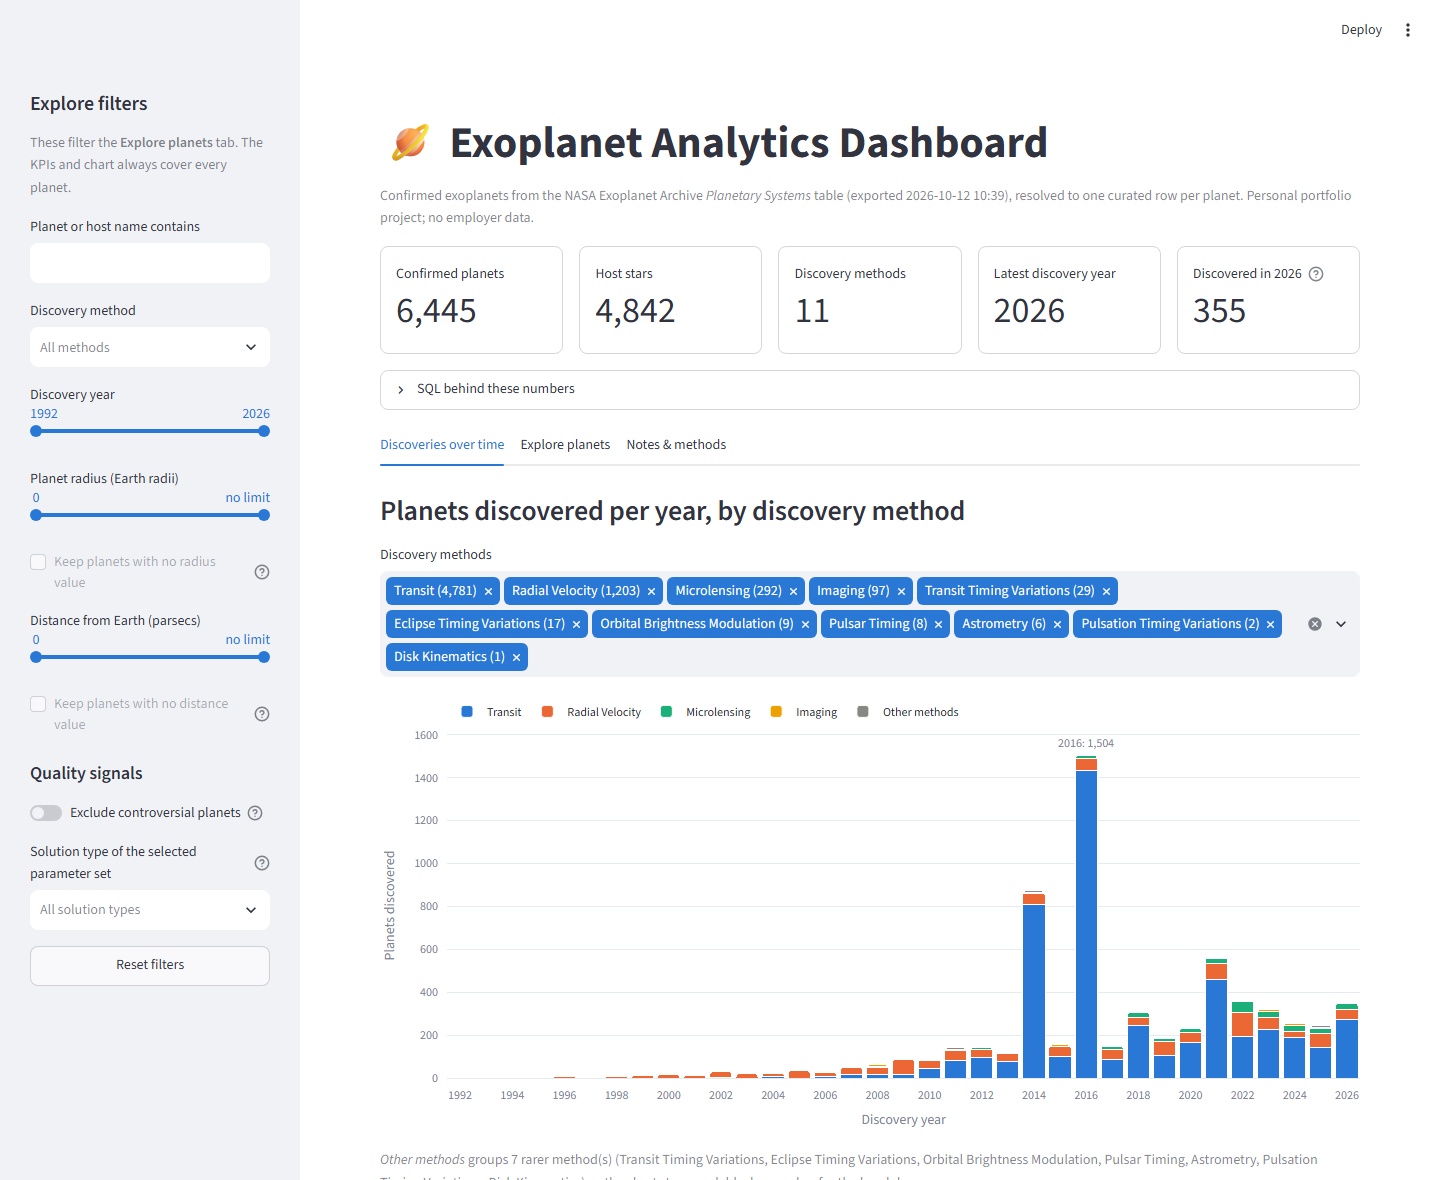
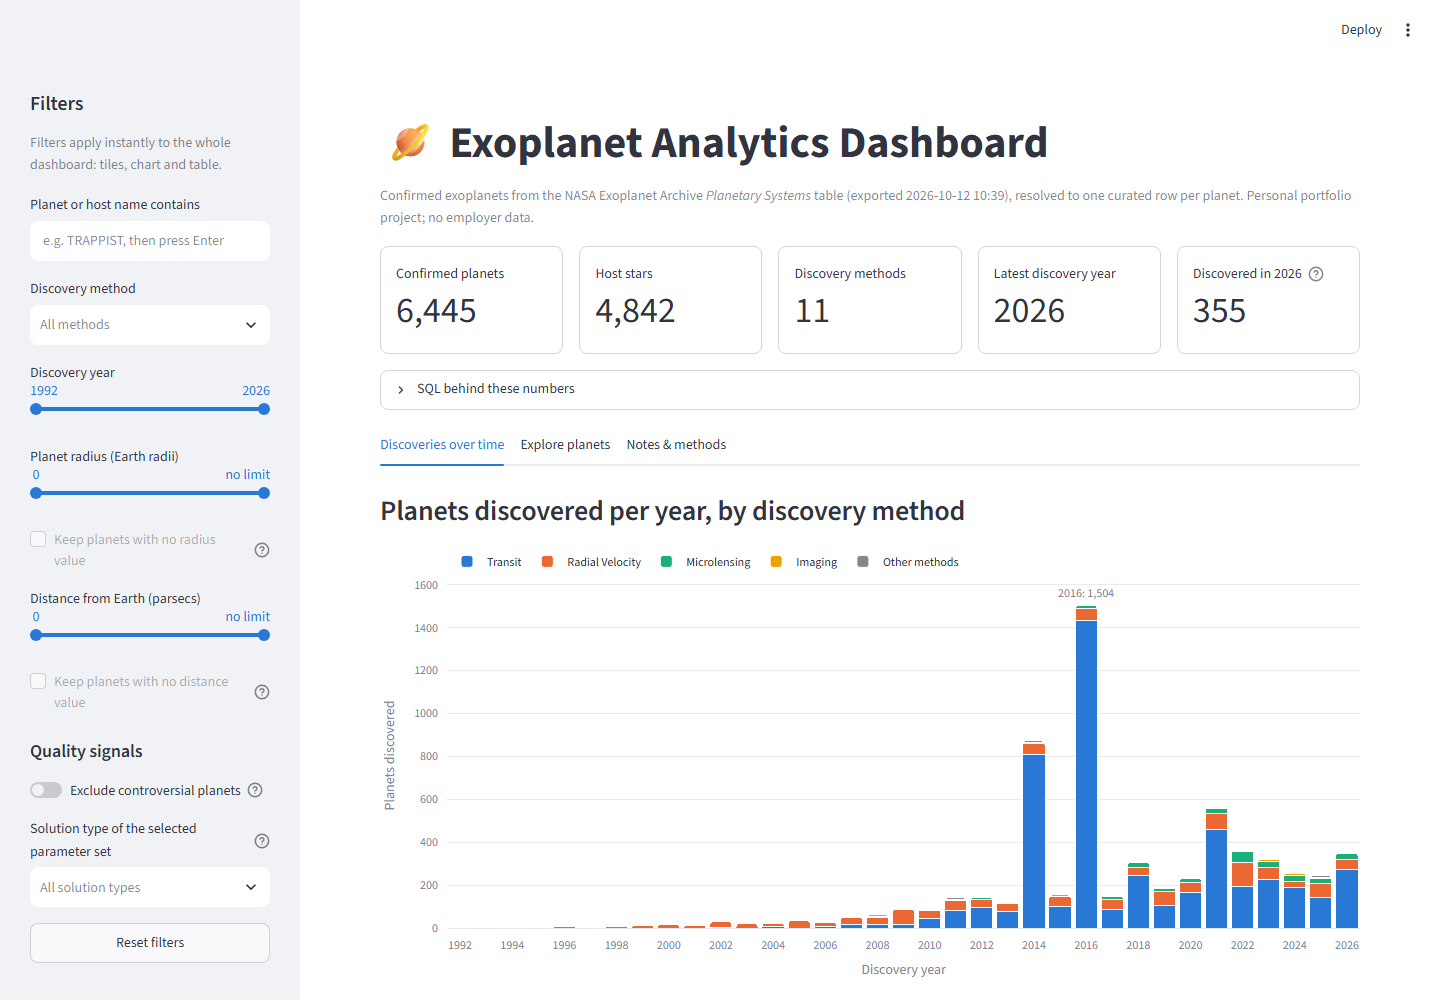
Make sidebar filters drive the whole dashboard; fix Reset filters
- The sidebar filters previously only affected the Explore table, which
  sits on a hidden tab, so changing them appeared to do nothing. They now
  build one shared WHERE clause used by the KPI tiles, the discoveries
  chart and the table, and a banner shows when filters are active.
- The chart's separate method picker is removed in favor of the sidebar's
  Discovery method filter.
- Reset filters cleared the stored values but left stale values in the
  widgets on screen. Filter widget keys now carry a version number that a
  reset bumps, so the widgets are redrawn at their defaults.
- README: live demo link, updated feature list and screenshot.

diff --git a/app.py b/app.py
@@ -225,6 +225,125 @@ def available(columns) -> list[str]:
     return [c for c in columns if c in PLANET_COLUMNS]
 
 
+# --- Reference values (always over the full dataset) ----------------------------
+
+TOTAL_PLANETS = int(query("SELECT COUNT(*) FROM planets").iloc[0, 0])
+METHOD_COUNTS = query(
+    "SELECT discoverymethod, COUNT(*) AS planets FROM planets "
+    "GROUP BY discoverymethod ORDER BY planets DESC, discoverymethod"
+)
+ALL_METHODS = METHOD_COUNTS.discoverymethod.tolist()
+METHOD_N = METHOD_COUNTS.set_index("discoverymethod").planets
+# Color follows the method, ranked on the full dataset, so filtering never repaints a series.
+TOP_METHODS = ALL_METHODS[: len(SERIES_COLORS["light"])]
+YEAR_MIN, YEAR_MAX = (int(v) for v in query("SELECT MIN(disc_year), MAX(disc_year) FROM planets").iloc[0])
+SOLTYPE_COUNTS = query(
+    "SELECT soltype, COUNT(*) AS planets FROM planets WHERE soltype IS NOT NULL "
+    "GROUP BY soltype ORDER BY planets DESC"
+).set_index("soltype").planets
+UNKNOWN_COUNTS = query(
+    "SELECT SUM(pl_rade IS NULL) AS radius, SUM(sy_dist IS NULL) AS distance FROM planets"
+).iloc[0]
+
+
+# --- Filters (sidebar) -----------------------------------------------------------
+# One set of filters drives every view: the KPI tiles, the chart and the table.
+
+def stop_label(value: float) -> str:
+    return "no limit" if value == INF else f"{value:g}"
+
+
+# Clearing a widget's session-state value does not redraw the widget, so a reset
+# would leave stale values on screen. Instead every filter key carries a version
+# number, and a reset bumps it so Streamlit draws fresh widgets at their defaults.
+st.session_state.setdefault("filters_version", 0)
+
+
+def fkey(name: str) -> str:
+    return f"f_{name}_{st.session_state.filters_version}"
+
+
+def reset_filters() -> None:
+    st.session_state.filters_version += 1
+
+
+with st.sidebar:
+    st.header("Filters")
+    st.caption("Filters apply instantly to the whole dashboard: tiles, chart and table.")
+    search = st.text_input("Planet or host name contains", key=fkey("search"),
+                           placeholder="e.g. TRAPPIST, then press Enter").strip()
+    methods = st.multiselect("Discovery method", ALL_METHODS, key=fkey("methods"), placeholder="All methods",
+                             format_func=lambda m: f"{m} ({METHOD_N[m]:,})")
+    years = st.slider("Discovery year", YEAR_MIN, YEAR_MAX, (YEAR_MIN, YEAR_MAX), key=fkey("years"))
+    radius = st.select_slider("Planet radius (Earth radii)", RADIUS_STOPS, (0, INF),
+                              format_func=stop_label, key=fkey("radius"))
+    keep_no_radius = st.checkbox(
+        "Keep planets with no radius value", key=fkey("keep_no_radius"), disabled=radius == (0, INF),
+        help=f"Applies once the range is narrowed. {UNKNOWN_COUNTS.radius:,} planets have no radius "
+             "in their selected parameter set (common for radial-velocity discoveries).",
+    )
+    distance = st.select_slider("Distance from Earth (parsecs)", DISTANCE_STOPS, (0, INF),
+                                format_func=stop_label, key=fkey("distance"))
+    keep_no_distance = st.checkbox(
+        "Keep planets with no distance value", key=fkey("keep_no_distance"), disabled=distance == (0, INF),
+        help=f"Applies once the range is narrowed. {UNKNOWN_COUNTS.distance:,} planets have no distance.",
+    )
+    st.subheader("Quality signals")
+    exclude_controversial = st.toggle(
+        "Exclude controversial planets", key=fkey("no_controversial"),
+        help="Planets whose status is flagged as questioned in the literature (pl_controv_flag = 1).",
+    )
+    soltypes = st.multiselect(
+        "Solution type of the selected parameter set", SOLTYPE_COUNTS.index.tolist(), key=fkey("soltypes"),
+        placeholder="All solution types", format_func=lambda s: f"{s} ({SOLTYPE_COUNTS[s]:,})",
+        help="Every planet here is confirmed; this describes the study row chosen for it, e.g. a "
+             "published paper vs. a Kepler/TESS pipeline catalog.",
+    )
+    st.button("Reset filters", on_click=reset_filters, width="stretch")
+
+
+def range_clause(col: str, bounds: tuple[float, float], keep_unknown: bool):
+    lo, hi = bounds
+    conds, params = [], []
+    if lo > 0:
+        conds.append(f"{col} >= ?")
+        params.append(float(lo))
+    if hi != INF:
+        conds.append(f"{col} <= ?")
+        params.append(float(hi))
+    if not conds:
+        return None, []
+    clause = " AND ".join(conds)
+    if keep_unknown:
+        clause = f"(({clause}) OR {col} IS NULL)"
+    return clause, params
+
+
+where, params = [], []
+if search:
+    where.append("(pl_name LIKE ? OR hostname LIKE ?)")
+    params += [f"%{search}%"] * 2
+if methods:
+    where.append(f"discoverymethod IN ({', '.join('?' * len(methods))})")
+    params += methods
+if years != (YEAR_MIN, YEAR_MAX):
+    where.append("disc_year BETWEEN ? AND ?")
+    params += list(years)
+for col, bounds, keep in [("pl_rade", radius, keep_no_radius), ("sy_dist", distance, keep_no_distance)]:
+    clause, clause_params = range_clause(col, bounds, keep)
+    if clause:
+        where.append(clause)
+        params += clause_params
+if exclude_controversial:
+    where.append("COALESCE(pl_controv_flag, 0) = 0")
+if soltypes:
+    where.append(f"soltype IN ({', '.join('?' * len(soltypes))})")
+    params += soltypes
+
+# Shared WHERE clause, spliced into every view's query below.
+FILTER_SQL = ("WHERE " + "\n  AND ".join(where) + "\n") if where else ""
+
+
 # --- Header & KPIs --------------------------------------------------------------
 
 st.title("🪐 Exoplanet Analytics Dashboard")
@@ -234,39 +353,49 @@ st.caption(
     "Personal portfolio project; no employer data."
 )
 
-KPI_SQL = """
+KPI_SQL = f"""
+WITH filtered AS (
+    SELECT * FROM planets
+    {FILTER_SQL.replace(chr(10), chr(10) + "    ").rstrip()}
+)
 SELECT COUNT(*)                        AS planets,
        COUNT(DISTINCT hostname)        AS host_stars,
        COUNT(DISTINCT discoverymethod) AS methods,
        MAX(disc_year)                  AS latest_year,
-       SUM(disc_year = (SELECT MAX(disc_year) FROM planets)) AS latest_year_planets
-FROM planets
+       SUM(disc_year = (SELECT MAX(disc_year) FROM filtered)) AS latest_year_planets
+FROM filtered
 """
-kpi = query(KPI_SQL).iloc[0]
+kpi = query(KPI_SQL, params).iloc[0]
+n_match = int(kpi.planets)
+
+if where:
+    note, clear = st.columns([5, 1], vertical_alignment="center")
+    note.info(f"**Filters active:** every view shows **{n_match:,}** of {TOTAL_PLANETS:,} planets.",
+              icon="🔎")
+    clear.button("Clear filters", on_click=reset_filters, width="stretch", key="clear_filters_top")
+
+
+def count(value) -> str:
+    return "—" if value is None or pd.isna(value) else f"{int(value):,}"
+
+
+latest = "—" if pd.isna(kpi.latest_year) else str(int(kpi.latest_year))
 tiles = st.columns(5)
-tiles[0].metric("Confirmed planets", f"{kpi.planets:,}", border=True)
-tiles[1].metric("Host stars", f"{kpi.host_stars:,}", border=True)
-tiles[2].metric("Discovery methods", f"{kpi.methods}", border=True)
-tiles[3].metric("Latest discovery year", f"{kpi.latest_year}", border=True)
+tiles[0].metric("Confirmed planets", count(kpi.planets), border=True)
+tiles[1].metric("Host stars", count(kpi.host_stars), border=True)
+tiles[2].metric("Discovery methods", count(kpi.methods), border=True)
+tiles[3].metric("Latest discovery year", latest, border=True)
 tiles[4].metric(
-    f"Discovered in {kpi.latest_year}", f"{kpi.latest_year_planets:,}", border=True,
-    help=f"Year to date as of the archive export ({EXPORTED_AT}).",
+    f"Discovered in {latest}", count(kpi.latest_year_planets), border=True,
+    help=(f"{YEAR_MAX} is year to date as of the archive export ({EXPORTED_AT})."
+          if latest == str(YEAR_MAX) else None),
 )
 with st.expander("SQL behind these numbers"):
-    show_sql(KPI_SQL)
+    show_sql(KPI_SQL, params)
 
 tab_time, tab_explore, tab_notes = st.tabs(["Discoveries over time", "Explore planets", "Notes & methods"])
 
 # --- Discoveries over time -----------------------------------------------------
-
-METHOD_COUNTS = query(
-    "SELECT discoverymethod, COUNT(*) AS planets FROM planets "
-    "GROUP BY discoverymethod ORDER BY planets DESC, discoverymethod"
-)
-ALL_METHODS = METHOD_COUNTS.discoverymethod.tolist()
-METHOD_N = METHOD_COUNTS.set_index("discoverymethod").planets
-# Color follows the method, ranked on the full dataset, so filtering never repaints a series.
-TOP_METHODS = ALL_METHODS[: len(SERIES_COLORS["light"])]
 
 
 def series_for(method: str) -> str:
@@ -320,28 +449,23 @@ def discoveries_chart(counts: pd.DataFrame) -> go.Figure:
 
 with tab_time:
     st.subheader("Planets discovered per year, by discovery method")
-    picked_methods = st.multiselect(
-        "Discovery methods", ALL_METHODS, default=ALL_METHODS,
-        format_func=lambda m: f"{m} ({METHOD_N[m]:,})",
-    )
-    if not picked_methods:
-        st.info("Select at least one discovery method to draw the chart.")
-    else:
-        placeholders = ", ".join("?" * len(picked_methods))
-        trend_sql = f"""
+    trend_sql = f"""
 SELECT disc_year, discoverymethod, COUNT(*) AS planets
 FROM planets
-WHERE discoverymethod IN ({placeholders})
-GROUP BY disc_year, discoverymethod
+{FILTER_SQL}GROUP BY disc_year, discoverymethod
 ORDER BY disc_year, discoverymethod
 """
-        trend = query(trend_sql, picked_methods)
+    trend = query(trend_sql, params)
+    if trend.empty:
+        st.info("No planets match the current filters. Loosen them in the sidebar to draw the chart.")
+    else:
         st.plotly_chart(discoveries_chart(trend), width="stretch", config={"displaylogo": False})
-        tail = [m for m in picked_methods if m not in TOP_METHODS]
+        tail = [m for m in ALL_METHODS if m not in TOP_METHODS and m in set(trend.discoverymethod)]
         if tail:
             st.caption(
                 f"*{OTHER_LABEL}* groups {len(tail)} rarer method(s) ({', '.join(tail)}) so the "
-                "chart stays readable; hover a bar for the breakdown."
+                "chart stays readable; hover a bar for the breakdown. Use the sidebar's *Discovery "
+                "method* filter to choose which methods are shown."
             )
         with st.expander("Chart data and SQL"):
             table = trend.pivot_table(index="disc_year", columns="discoverymethod", values="planets",
@@ -349,105 +473,12 @@ ORDER BY disc_year, discoverymethod
             table = table[[m for m in ALL_METHODS if m in table.columns]]
             table.insert(0, "Total", table.sum(axis=1))
             st.dataframe(table.rename_axis("Year").sort_index(ascending=False), width="stretch")
-            show_sql(trend_sql, picked_methods)
+            show_sql(trend_sql, params)
 
 # --- Explore -------------------------------------------------------------------
 
-YEAR_MIN, YEAR_MAX = (int(v) for v in query("SELECT MIN(disc_year), MAX(disc_year) FROM planets").iloc[0])
-SOLTYPE_COUNTS = query(
-    "SELECT soltype, COUNT(*) AS planets FROM planets WHERE soltype IS NOT NULL "
-    "GROUP BY soltype ORDER BY planets DESC"
-).set_index("soltype").planets
-UNKNOWN_COUNTS = query(
-    "SELECT SUM(pl_rade IS NULL) AS radius, SUM(sy_dist IS NULL) AS distance FROM planets"
-).iloc[0]
-
-
-def stop_label(value: float) -> str:
-    return "no limit" if value == INF else f"{value:g}"
-
-
-def reset_filters() -> None:
-    for key in [k for k in st.session_state if k.startswith("f_")]:
-        del st.session_state[key]
-
-
-with st.sidebar:
-    st.header("Explore filters")
-    st.caption("These filter the **Explore planets** tab. The KPIs and chart always cover every planet.")
-    search = st.text_input("Planet or host name contains", key="f_search").strip()
-    methods = st.multiselect("Discovery method", ALL_METHODS, key="f_methods", placeholder="All methods")
-    years = st.slider("Discovery year", YEAR_MIN, YEAR_MAX, (YEAR_MIN, YEAR_MAX), key="f_years")
-    radius = st.select_slider("Planet radius (Earth radii)", RADIUS_STOPS, (0, INF),
-                              format_func=stop_label, key="f_radius")
-    keep_no_radius = st.checkbox(
-        "Keep planets with no radius value", key="f_keep_no_radius", disabled=radius == (0, INF),
-        help=f"Applies once the range is narrowed. {UNKNOWN_COUNTS.radius:,} planets have no radius "
-             "in their selected parameter set (common for radial-velocity discoveries).",
-    )
-    distance = st.select_slider("Distance from Earth (parsecs)", DISTANCE_STOPS, (0, INF),
-                                format_func=stop_label, key="f_distance")
-    keep_no_distance = st.checkbox(
-        "Keep planets with no distance value", key="f_keep_no_distance", disabled=distance == (0, INF),
-        help=f"Applies once the range is narrowed. {UNKNOWN_COUNTS.distance:,} planets have no distance.",
-    )
-    st.subheader("Quality signals")
-    exclude_controversial = st.toggle(
-        "Exclude controversial planets", key="f_no_controversial",
-        help="Planets whose status is flagged as questioned in the literature (pl_controv_flag = 1).",
-    )
-    soltypes = st.multiselect(
-        "Solution type of the selected parameter set", SOLTYPE_COUNTS.index.tolist(), key="f_soltypes",
-        placeholder="All solution types", format_func=lambda s: f"{s} ({SOLTYPE_COUNTS[s]:,})",
-        help="Every planet here is confirmed; this describes the study row chosen for it, e.g. a "
-             "published paper vs. a Kepler/TESS pipeline catalog.",
-    )
-    st.button("Reset filters", on_click=reset_filters, width="stretch")
-
-
-def range_clause(col: str, bounds: tuple[float, float], keep_unknown: bool):
-    lo, hi = bounds
-    conds, params = [], []
-    if lo > 0:
-        conds.append(f"{col} >= ?")
-        params.append(float(lo))
-    if hi != INF:
-        conds.append(f"{col} <= ?")
-        params.append(float(hi))
-    if not conds:
-        return None, []
-    clause = " AND ".join(conds)
-    if keep_unknown:
-        clause = f"(({clause}) OR {col} IS NULL)"
-    return clause, params
-
-
-where, params = [], []
-if search:
-    where.append("(pl_name LIKE ? OR hostname LIKE ?)")
-    params += [f"%{search}%"] * 2
-if methods:
-    where.append(f"discoverymethod IN ({', '.join('?' * len(methods))})")
-    params += methods
-if years != (YEAR_MIN, YEAR_MAX):
-    where.append("disc_year BETWEEN ? AND ?")
-    params += list(years)
-for col, bounds, keep in [("pl_rade", radius, keep_no_radius), ("sy_dist", distance, keep_no_distance)]:
-    clause, clause_params = range_clause(col, bounds, keep)
-    if clause:
-        where.append(clause)
-        params += clause_params
-if exclude_controversial:
-    where.append("COALESCE(pl_controv_flag, 0) = 0")
-if soltypes:
-    where.append(f"soltype IN ({', '.join('?' * len(soltypes))})")
-    params += soltypes
-
 explore_cols = available(EXPLORE_COLUMNS)
-explore_sql = f"SELECT {', '.join(explore_cols)}\nFROM planets\n"
-if where:
-    explore_sql += "WHERE " + "\n  AND ".join(where) + "\n"
-explore_sql += "ORDER BY disc_year DESC, pl_name"
+explore_sql = f"SELECT {', '.join(explore_cols)}\nFROM planets\n{FILTER_SQL}ORDER BY disc_year DESC, pl_name"
 
 
 def on_table_select() -> None:
@@ -543,13 +574,13 @@ ORDER BY selection_rank
 
 
 with tab_explore:
-    total = int(kpi.planets)
+    total = TOTAL_PLANETS
     planets = query(explore_sql, params)
     planets["reference"] = ref_labels(planets.pop("pl_refname"))
     st.session_state["_explore_names"] = planets.pl_name.tolist()
 
     head_left, head_right = st.columns([3, 1], vertical_alignment="bottom")
-    head_left.markdown(f"**{len(planets):,}** of {total:,} planets match the sidebar filters. "
+    head_left.markdown(f"**{len(planets):,}** of {total:,} planets match the filters. "
                        "Select a row to see where its values come from.")
     head_right.download_button(
         "Download CSV", planets.to_csv(index=False).encode("utf-8"), "exoplanets_filtered.csv",
@@ -652,7 +683,7 @@ every competing parameter set ranked by this rule.
   upper limit.
 - **Error columns are kept but hidden.** Every `*err1`/`*err2` uncertainty column is stored in both
   tables; the views do not display them.
-- **The latest year is partial.** Discovery counts for {kpi.latest_year} run to the export date.
+- **The latest year is partial.** Discovery counts for {YEAR_MAX} run to the export date.
 - **Publication dates vary in precision** (`2011-08`, `2017-08-31`, `2017-08-31 00:00`); they are
   compared on their ISO prefix.
 - **Parsing note.** The CSV starts with `#` metadata lines, but some reference fields also contain

diff --git a/README.md b/README.md
@@ -6,7 +6,7 @@ resolves them to one trustworthy row per planet (~6,400 planets), and a Streamli
 the result: headline KPIs, discoveries over time, self-service filtering, and a drill-down to
 every source measurement behind each planet.
 
-**Live demo:** _add the Streamlit Community Cloud link here once deployed_
+**Live demo:** https://exoplanet-analytics-dashboard.streamlit.app/
 
 ![Dashboard screenshot](docs/screenshot.png)
 
@@ -15,14 +15,16 @@ every source measurement behind each planet.
 
 ## Features
 
+- **Global filters:** name, discovery method, year range, radius, distance, controversial flag,
+  and solution type. They apply instantly to every view at once, and all views share one SQL
+  `WHERE` clause.
 - **Overview KPIs:** confirmed planets, host stars, discovery methods, latest discovery year,
   and planets discovered that year.
-- **Discoveries over time:** stacked bar chart of planets per year by discovery method, with a
-  method filter, hover breakdowns, and the underlying data table.
-- **Explore planets:** a filterable table (name, method, year, radius, distance, controversial
-  flag, solution type) with CSV download. Selecting a planet opens a detail view with its
-  curated values, the study they came from, and every competing parameter set ranked by the
-  selection rule.
+- **Discoveries over time:** stacked bar chart of planets per year by discovery method, with
+  hover breakdowns and the underlying data table.
+- **Explore planets:** the filtered table with CSV download. Selecting a planet opens a detail
+  view with its curated values, the study they came from, and every competing parameter set
+  ranked by the selection rule.
 - **Notes & methods:** the data source, the selection rule in plain language, and known caveats.
 - **Visible SQL:** every view has a "SQL behind this" expander showing the exact query it ran.
 
